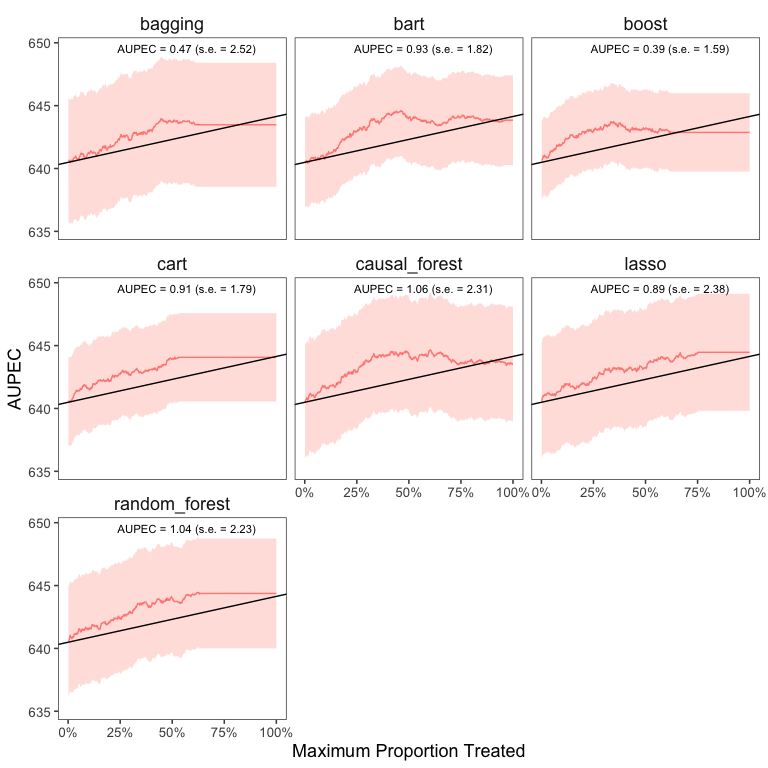
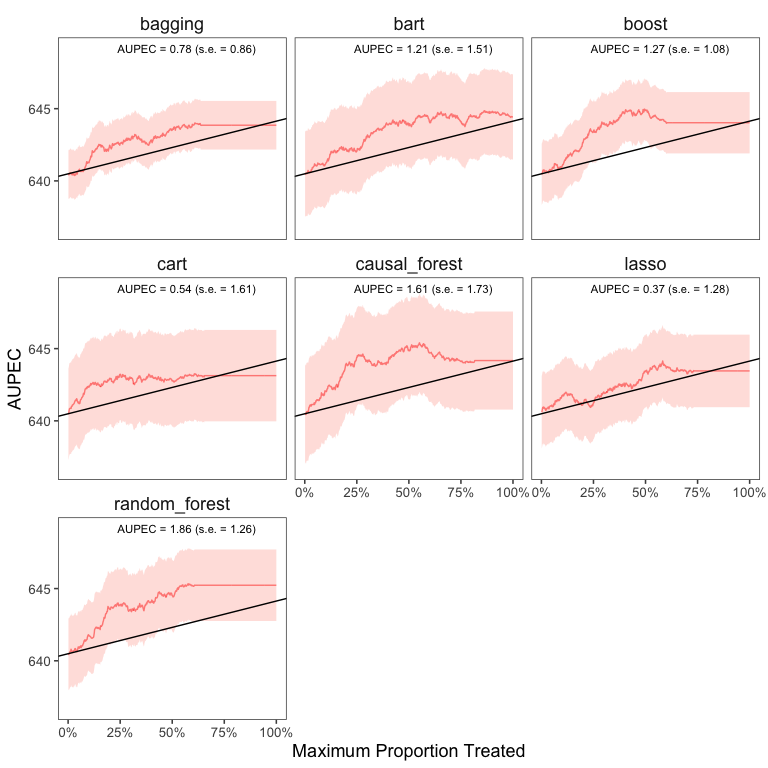
seperate training and estimation as Kosuke sug

diff --git a/README.md b/README.md
@@ -56,7 +56,7 @@ covariates <-  star %>%
                 dplyr::select(-c(all_of(outcomes),"treatment")) %>% 
                 colnames()
 
-# estimate ITR 
+# train the model
 fit <- run_itr(outcome = outcomes,
                treatment = "treatment",
                covariates = covariates,
@@ -73,6 +73,79 @@ fit <- run_itr(outcome = outcomes,
                n_folds = 3)
 ```
 
+``` r
+# compute estimates
+est <- estimate_itr(
+          fit = fit,
+          outcome = "g3tlangss",
+          algorithms = c(
+                "causal_forest", 
+                "bart",
+                "lasso",
+                "boost", 
+                "random_forest",
+                "bagging",
+                "cart"))
+```
+
+``` r
+# summarize estimates
+summary(est)
+#> ── PAPE ────────────────────────────────────────────────────────────────────────
+#>   estimate std.deviation     algorithm statistic p.value
+#> 1     1.01          1.02 causal_forest      0.99   0.321
+#> 2     0.61          1.12          bart      0.55   0.583
+#> 3     0.62          1.26         lasso      0.49   0.624
+#> 4     1.61          0.84         boost      1.92   0.055
+#> 5     2.69          1.31 random_forest      2.04   0.041
+#> 6     1.36          1.26       bagging      1.08   0.282
+#> 7     0.84          0.89          cart      0.94   0.345
+#> 
+#> ── PAPEp ───────────────────────────────────────────────────────────────────────
+#>   estimate std.deviation     algorithm statistic p.value
+#> 1    2.728          0.93 causal_forest     2.938  0.0033
+#> 2    0.916          1.11          bart     0.828  0.4074
+#> 3   -0.014          0.65         lasso    -0.022  0.9826
+#> 4    1.507          0.66         boost     2.277  0.0228
+#> 5    2.343          1.18 random_forest     1.981  0.0475
+#> 6    1.234          0.70       bagging     1.765  0.0775
+#> 7    1.680          0.62          cart     2.709  0.0068
+#> 
+#> ── PAPDp ───────────────────────────────────────────────────────────────────────
+#>    estimate std.deviation                     algorithm statistic p.value
+#> 1      1.81          0.69          causal_forest x bart      2.63  0.0084
+#> 2      2.74          0.85         causal_forest x lasso      3.21  0.0013
+#> 3      1.22          0.80         causal_forest x boost      1.52  0.1281
+#> 4      0.39          0.92 causal_forest x random_forest      0.42  0.6749
+#> 5      1.49          0.77       causal_forest x bagging      1.94  0.0518
+#> 6      1.05          0.91          causal_forest x cart      1.16  0.2479
+#> 7      0.93          0.78                  bart x lasso      1.19  0.2351
+#> 8     -0.59          0.80                  bart x boost     -0.74  0.4595
+#> 9     -1.43          1.24          bart x random_forest     -1.15  0.2501
+#> 10    -0.32          1.22                bart x bagging     -0.26  0.7949
+#> 11    -0.76          0.89                   bart x cart     -0.86  0.3921
+#> 12    -1.52          1.29                 lasso x boost     -1.18  0.2398
+#> 13    -2.36          0.88         lasso x random_forest     -2.68  0.0073
+#> 14    -1.25          0.85               lasso x bagging     -1.47  0.1418
+#> 15    -1.69          1.55                  lasso x cart     -1.09  0.2741
+#> 16    -0.84          0.79         boost x random_forest     -1.06  0.2913
+#> 17     0.27          0.74               boost x bagging      0.37  0.7134
+#> 18    -0.17          1.48                  boost x cart     -0.12  0.9070
+#> 19     1.11          0.58       random_forest x bagging      1.92  0.0547
+#> 20     0.66          0.94          random_forest x cart      0.71  0.4791
+#> 21    -0.45          0.91                bagging x cart     -0.49  0.6229
+#> 
+#> ── AUPEC ───────────────────────────────────────────────────────────────────────
+#>   estimate std.deviation     algorithm statistic p.value
+#> 1     1.61          1.73 causal_forest      0.93    0.35
+#> 2     1.21          1.51          bart      0.81    0.42
+#> 3     0.37          1.28         lasso      0.29    0.77
+#> 4     1.27          1.08         boost      1.17    0.24
+#> 5     1.86          1.26 random_forest      1.47    0.14
+#> 6     0.78          0.86       bagging      0.91    0.36
+#> 7     0.54          1.61          cart      0.34    0.74
+```
+
 The`summary()` function displays the following summary statistics: (1)
 population average prescriptive effect `PAPE`; (2) population average
 prescriptive effect with a budget constraint `PAPEp`; (3) population
@@ -81,82 +154,24 @@ average prescriptive effect difference with a budget constraint `PAPDp`;
 information about these evaluation metrics, please refer to [this
 paper](https://arxiv.org/abs/1905.05389).
 
-``` r
-# summarize estimates
-summary(fit)
-#> ── PAPE ────────────────────────────────────────────────────────────────────────
-#>   estimate std.deviation     algorithm statistic p.value
-#> 1     0.65          1.69 causal_forest      0.38   0.702
-#> 2     1.80          1.09          bart      1.65   0.099
-#> 3     2.02          1.08         lasso      1.88   0.061
-#> 4     0.61          0.83         boost      0.74   0.462
-#> 5     1.97          1.28 random_forest      1.55   0.122
-#> 6     1.18          0.84       bagging      1.40   0.161
-#> 7     1.59          1.82          cart      0.88   0.381
-#> 
-#> ── PAPEp ───────────────────────────────────────────────────────────────────────
-#>   estimate std.deviation     algorithm statistic p.value
-#> 1     1.26          1.08 causal_forest      1.16   0.245
-#> 2     1.14          0.65          bart      1.77   0.077
-#> 3     0.74          1.07         lasso      0.69   0.487
-#> 4     1.67          0.66         boost      2.54   0.011
-#> 5     0.79          0.68 random_forest      1.17   0.243
-#> 6     0.46          0.69       bagging      0.67   0.501
-#> 7     0.87          0.66          cart      1.31   0.191
-#> 
-#> ── PAPDp ───────────────────────────────────────────────────────────────────────
-#>    estimate std.deviation                     algorithm statistic p.value
-#> 1     0.116          0.55          causal_forest x bart     0.211    0.83
-#> 2     0.515          1.30         causal_forest x lasso     0.396    0.69
-#> 3    -0.410          0.96         causal_forest x boost    -0.427    0.67
-#> 4     0.465          0.79 causal_forest x random_forest     0.593    0.55
-#> 5     0.794          0.85       causal_forest x bagging     0.930    0.35
-#> 6     0.391          1.19          causal_forest x cart     0.329    0.74
-#> 7     0.399          0.76                  bart x lasso     0.526    0.60
-#> 8    -0.526          1.46                  bart x boost    -0.361    0.72
-#> 9     0.350          1.13          bart x random_forest     0.310    0.76
-#> 10    0.678          1.42                bart x bagging     0.478    0.63
-#> 11    0.276          1.39                   bart x cart     0.199    0.84
-#> 12   -0.925          0.76                 lasso x boost    -1.209    0.23
-#> 13   -0.049          0.86         lasso x random_forest    -0.057    0.95
-#> 14    0.279          0.85               lasso x bagging     0.327    0.74
-#> 15   -0.123          1.16                  lasso x cart    -0.107    0.91
-#> 16    0.875          0.77         boost x random_forest     1.140    0.25
-#> 17    1.204          1.29               boost x bagging     0.935    0.35
-#> 18    0.801          1.47                  boost x cart     0.544    0.59
-#> 19    0.328          0.46       random_forest x bagging     0.708    0.48
-#> 20   -0.074          0.86          random_forest x cart    -0.086    0.93
-#> 21   -0.402          1.40                bagging x cart    -0.288    0.77
-#> 
-#> ── AUPEC ───────────────────────────────────────────────────────────────────────
-#>   estimate std.deviation     algorithm statistic p.value
-#> 1     1.06           2.3 causal_forest      0.46    0.65
-#> 2     0.93           1.8          bart      0.51    0.61
-#> 3     0.89           2.4         lasso      0.37    0.71
-#> 4     0.39           1.6         boost      0.25    0.81
-#> 5     1.04           2.2 random_forest      0.47    0.64
-#> 6     0.47           2.5       bagging      0.19    0.85
-#> 7     0.91           1.8          cart      0.51    0.61
-```
-
 We plot the estimated Area Under the Prescriptive Effect Curve for the
 writing score across a range of budget constraints for different
 algorithms.
 
 ``` r
 # plot the AUPEC with different ML algorithms
-plot(x = fit, 
+plot(x = est, 
       outcome = "g3tlangss",
       treatment = "treatment",
       data = star, 
       algorithms = c(
-          "causal_forest",
-          "bart",
-          "lasso",
-          "boost", 
-          "random_forest",
-          "bagging", 
-          "cart"))
+                "causal_forest", 
+                "bart",
+                "lasso",
+                "boost", 
+                "random_forest",
+                "bagging",
+                "cart"))
 ```
 
 <img src="man/figures/README-plot-1.png" style="display: block; margin: auto;" />
